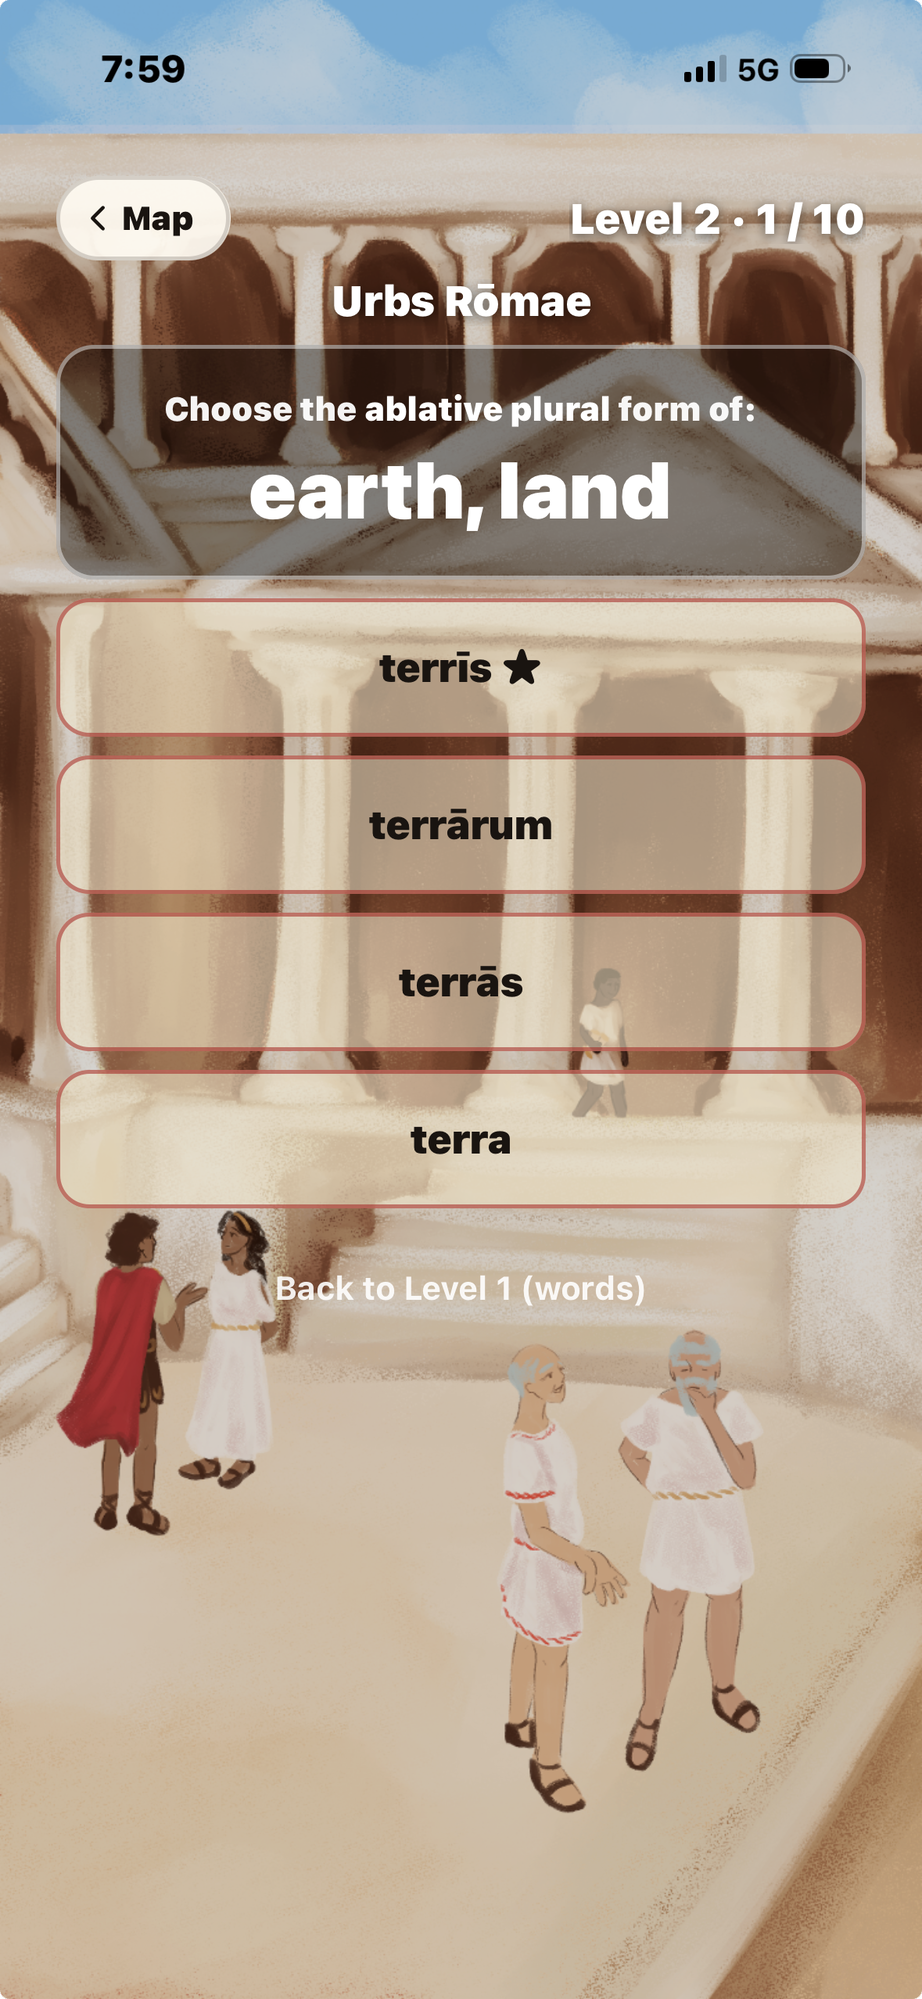
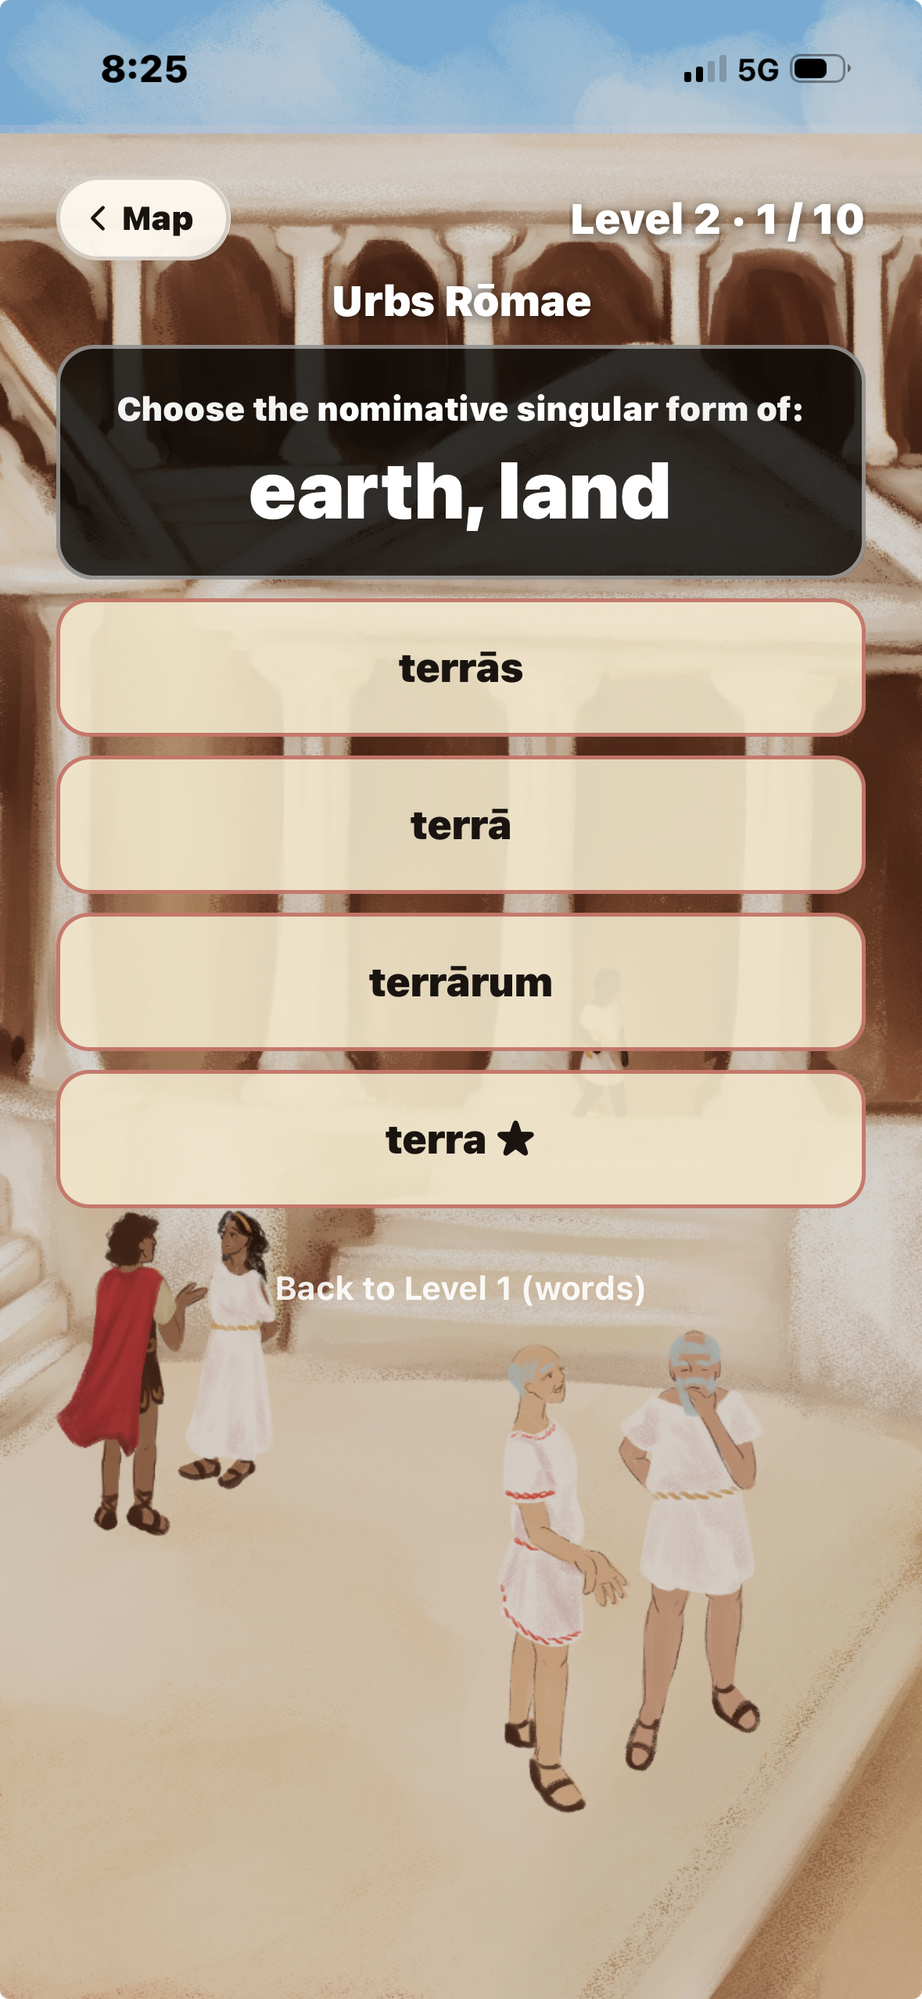
Use the clearer case-challenge screenshot
Swaps in the version with less see-through answer panels, so the Latin forms
read properly against the illustration. The alt text now describes the
nominative singular question shown in this one.

Changed region(s): [[0.0607, 0.1551, 0.9414, 0.6203], [0.1215, 0.031, 0.2126, 0.062]]

diff --git a/src/app/jam-with-latin/page.tsx b/src/app/jam-with-latin/page.tsx
@@ -176,7 +176,7 @@ export default function JamWithLatin() {
               <Image src={shotHome} alt="Home screen: your legionary, current city, XP, and the word of the day" sizes="264px" priority />
             </div>
             <div className="phone">
-              <Image src={shotCase} alt="A case challenge in the city of Rōma: choose the ablative plural of “earth, land”" sizes="228px" placeholder="blur" />
+              <Image src={shotCase} alt="A case challenge in the city of Rōma: choose the nominative singular of “earth, land”" sizes="228px" placeholder="blur" />
             </div>
           </div>
         </div>
